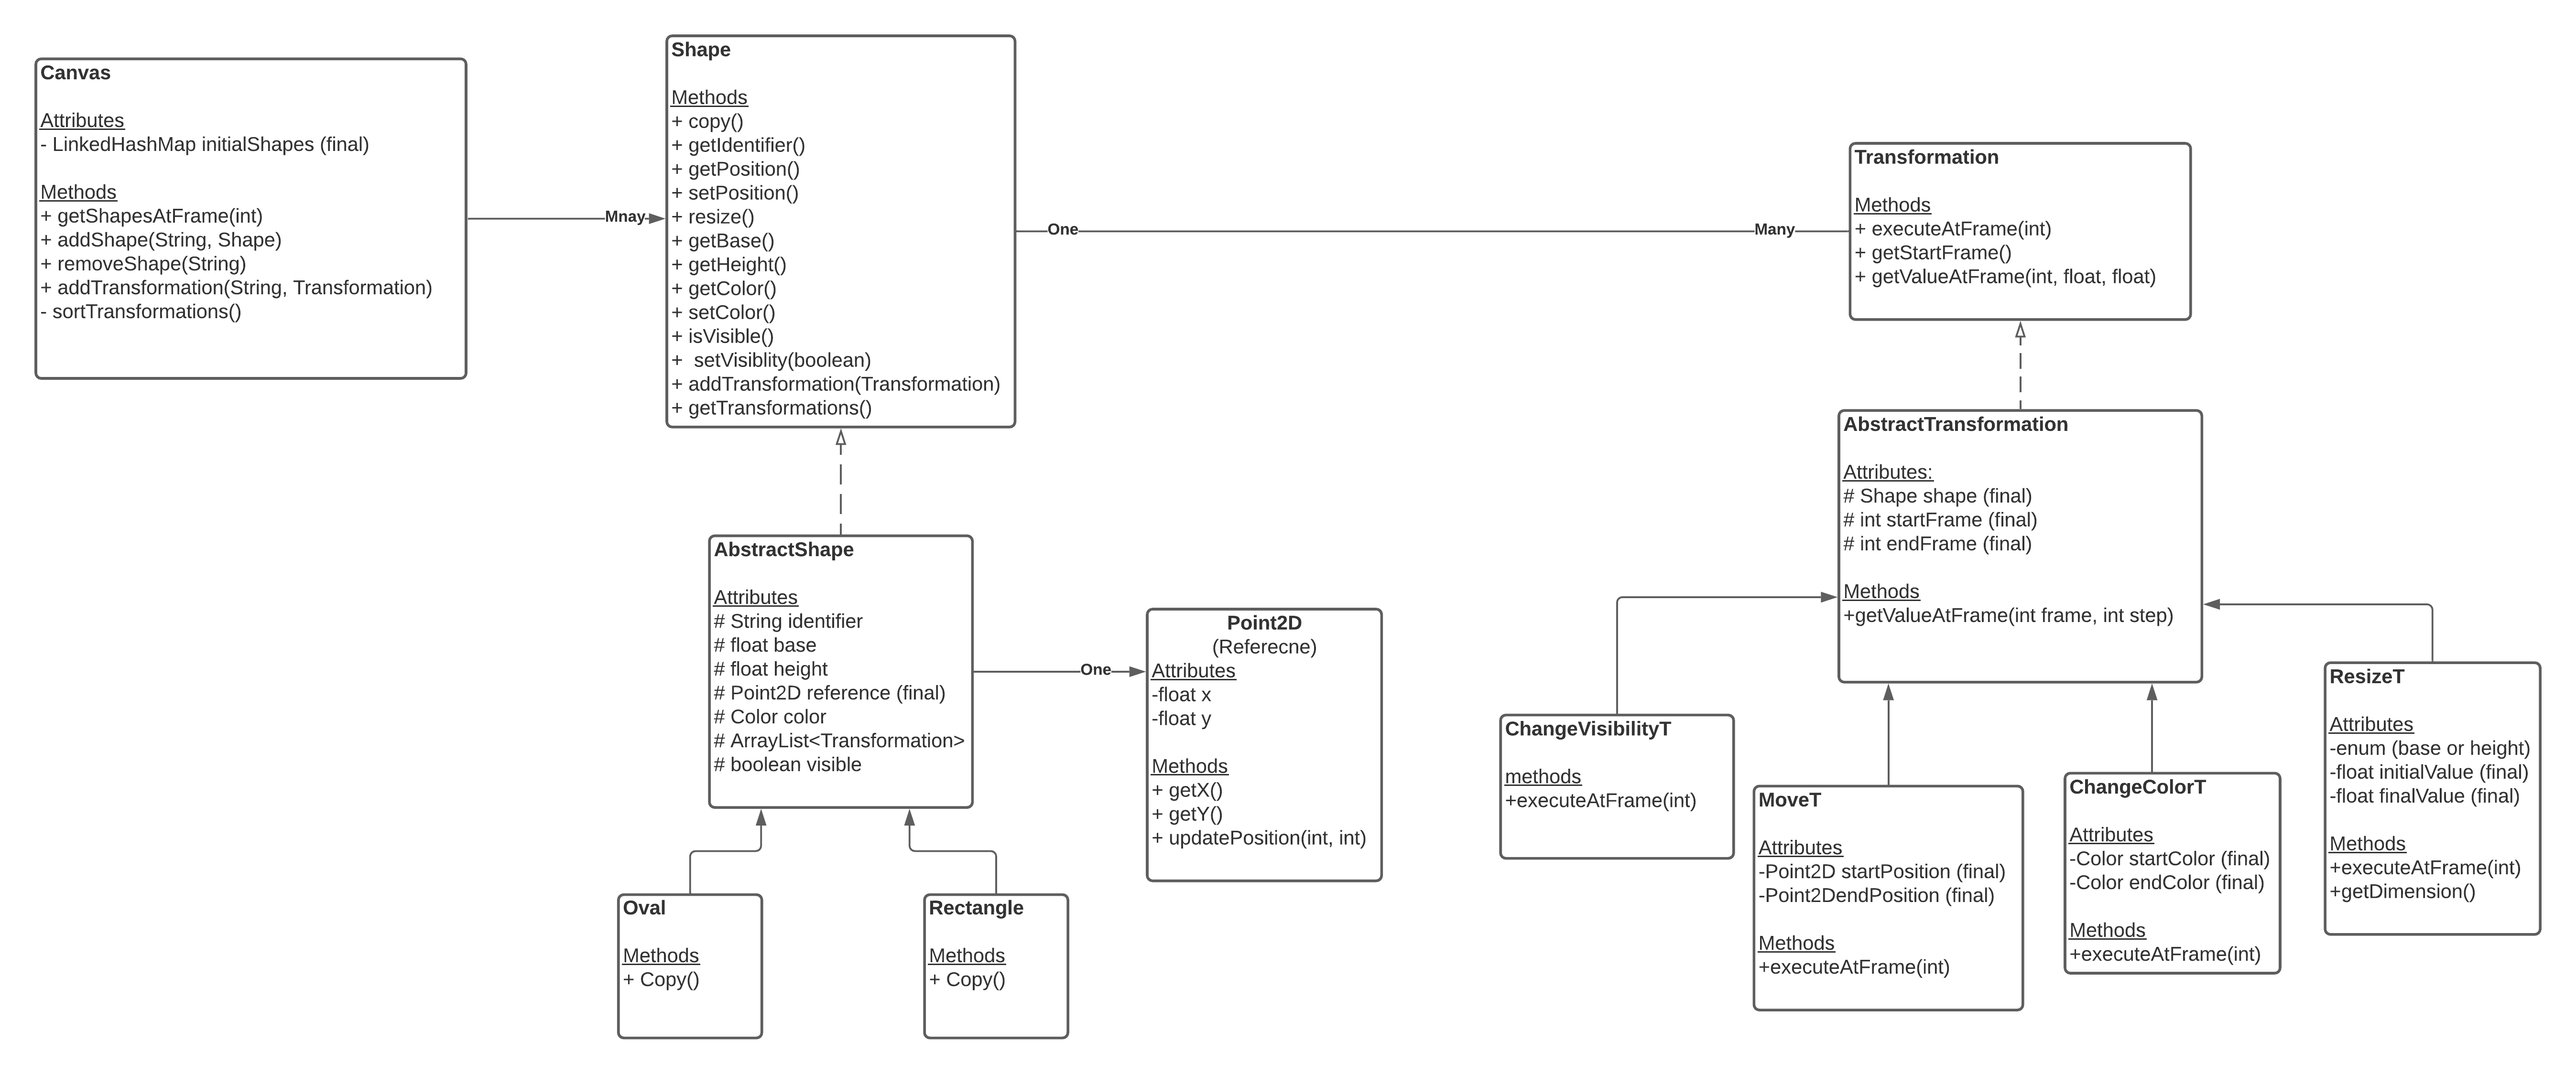
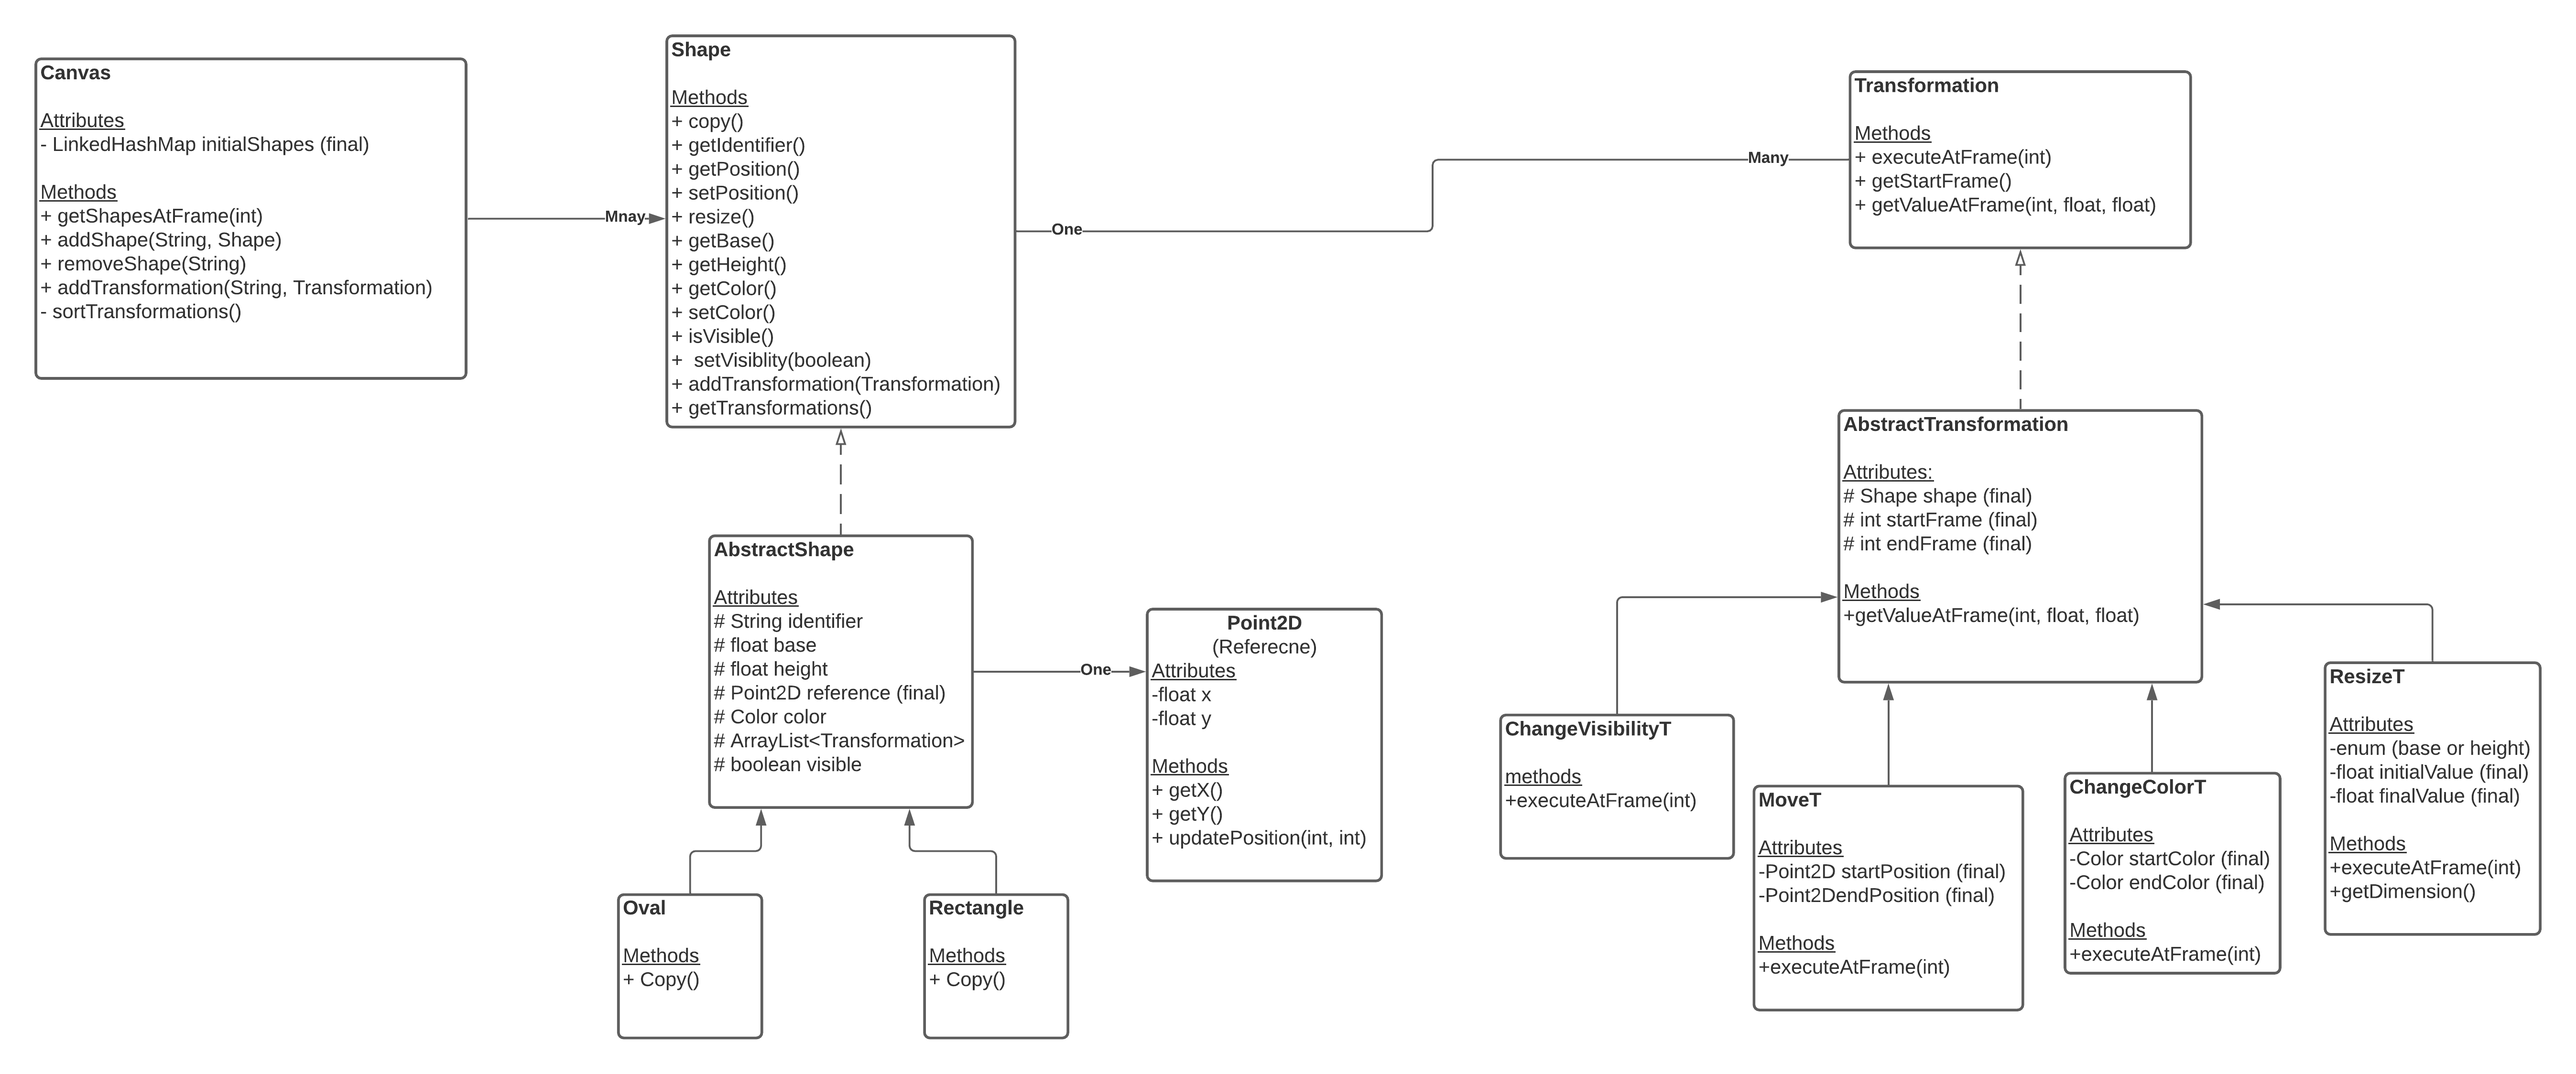
Cleaned up, added UML and README.md

Changed region(s): [[0.717, 0.0623, 0.8417, 0.3114], [0.7794, 0.5605, 0.8417, 0.5916]]

diff --git a/src/model/canvas/Canvas.java b/src/model/canvas/Canvas.java
@@ -102,7 +102,7 @@ public class Canvas {
    *
    * @param transformations a list of transformations to sort.
    */
-  private void sortTransformations(ArrayList transformations) {
+  private void sortTransformations(ArrayList<Transformation> transformations) {
     Comparator<Transformation> c = (o1, o2) -> o1.getStartFrame() - o2.getStartFrame();
     transformations.sort(c);
   }

diff --git a/src/model/shape/Shape.java b/src/model/shape/Shape.java
@@ -100,5 +100,5 @@ public interface Shape {
    *
    * @return list of Transformation objects.
    */
-  ArrayList getTransformations();
+  ArrayList<Transformation> getTransformations();
 }

diff --git a/README.md b/README.md
@@ -1,1 +1,74 @@
 # EasyAnimator
+
+## Canvas
+
+The Canvas contains all Shape objects that will appear in the animation, and can also be thought of
+as the screen. The Canvas is able to render all Shapes in the appropriate position, size, and color
+at any given frame throughout the animation. Shapes are tracked using a LinkedHashMap, which takes a
+Shape identifier as a key. The LinkedHashMap stores the original Shape object in the order they were
+added, so the Canvas can be reset if needed. Shapes can be added or removed from the Canvas.
+Transformations can also be added directly to the Canvas, given the identifier of the Shape they
+will act upon.
+
+## Shape Interface
+
+The Shape interface represents a shape that can be added to a Canvas. A Shape can do a multitude of
+operations, including make a copy of itself, change its position, size, or color, and appear or
+disappear.
+
+### AbstractShape
+
+AbstractShape defines behavior of shared methods of child classes of the Shape interface. An
+AbstractShape has an identifier, a base and height, a reference point (Point2D), a Color, and an
+ArrayList of Transformations that act on that Shape. The state of the shape can be calculated for
+all fields at each frame by looping over this list of Transformations.
+
+### Oval and Rectangle
+
+Oval and Rectangle are children of the Shape interface, and extend AbstractShape. These classes
+override the copy method and define the reference point. The functionality of these classes could be
+improved with a "calculateArea" method that calculates the area of each Shape.
+
+### Point2D
+
+Point2D is a simple class that represents an (x, y) position on a coordinate plane. Point2D has an x
+and y value, and is capable of changing its position. The functionality of this class could be
+extended with a "calculateDistance" method that finds the distance between two Point2D instances.
+
+## Transformation Interface
+
+A Transformation corresponds to one Shape only, and is only active over a certain range of frames. A
+Transformation is responsible for changing only one field of a Shape. Therefore, there are separate
+child classes that can change a Shape's visibility, position, color, or size. A transformation can
+determine the appropriate state of its Shape at a given frame.
+
+### AbstractTransformation
+
+The AbstractTransformation defines shared behavior of all Transformation classes. The Shape object
+that the Transformation acts upon is held here, along with the starting and ending frame where the
+Transformation is active. The AbstractTransformation class also defines the getValueAtFrame method,
+which, given a frame and initial and final value, will calculate the intermediate value at the given
+frame. This method is used in child classes to find the value of one of its parameters at the
+appropriate frame. For example, the MoveT Transformation uses this method to calculate its x
+position value at a certain frame. It then uses the method again to calculate the y position.
+
+### ChangeVisibilityT
+
+ChangeVisibilityT is a transformation that tells a shape which frame to appear at, and which frame
+to disappear at. Its executeAtFrame returns a boolean depending on if the shape should be visible at
+the given frame or not.
+
+### MoveT
+
+MoveT moves a Shape from an initial position to a final position. The ExecuteAtFrame method returns
+an array of floats containing the x and y coordinates respectively.
+
+### ChangeColorT
+
+ChangeColorT changes a Shape's color from an initial rgb value to a final rgb value. The
+ExecuteAtFrame method returns an array of Integers that represents r,g,b respectively.
+
+### ResizeT
+
+ResizeT changes the size of a shape. However, a ResizeT object can only change one dimension
+(base or height). ExecuteAtFrame method returns a float that represents the new dimension.
